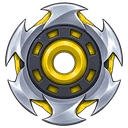
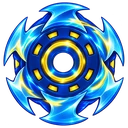
feat(game): the owner's own saw for the volt blades

diff --git a/AGENTS.md b/AGENTS.md
@@ -11,7 +11,7 @@ Guide for any AI agent (Claude Code, Codex, Cursor, Gemini CLI…) working in th
 - `src/data/` — **content**: `experience.ts` (jobs and roles), `work.ts` (projects), `contact.ts`.
 - `src/i18n/locales/*.json` — eleven translation files. Any user-visible text must be added to **all eleven** (`en` is the reference).
 - `src/styles/partials/` — SCSS by section. `_mobile.scss` and `_responsive.scss` hold the phone layout (≤760px).
-- `game.html` + `src/game/` — **Bug Hunter**, an Archero-style canvas game with Survivor.io-style weapons (move to dodge, stand still and ranged weapons fire; melee and magic work all the time; bugs drop XP gems; twelve rooms: ten fights with bosses in rooms 6 and 12, plus two shrine rooms (5 and 11); each level up offers one melee, one magic and one ranged or upgrade pick). It has two modes (`Mode` in `world.ts`, `save.mode`, picked on the cover's pill under the play bar or on the map screen's `.mode-pick`): **Sprints** is that room game; **On call** («Guardia», `'horde'`) is the Survivor.io take: `newGame(…, 'horde')` calls `startField()` instead of `enterRoom()`, the hero starts at (0, 0) on an open field with no walls (`keepInRoom` only clamps in sprints, `outside()` is never true there, shots and orbs die by their `life`), the camera rides on the hero (`draw()` centres the transform on `view.cx/cy`, which `resize()` sets to the middle of the area under the HUD; `drawField()` tiles the plain middle of the world's floor picture, `FLOOR_CROP`, mirrored tile by tile; fog and the retro grid cover `vis`, the visible rect) and `updateHorde()` runs the ten minutes (`HORDE_LENGTH`): spawns on a ring just past the visible edge (`ringSpot`, from `g.viewHalf`, which the page sets every frame from the canvas), faster and in bigger groups with the clock, tickets from 1:30 and legacy from 2:30 with a cap on tickets and on everyone (`cap`), toughness and speed scaling with the minute instead of the room, stragglers far behind teleported back to the ring, hazard patches (lava, puddles, thorns) dropped near you now and then, a coin bonus and a `'minute'` event each minute, bosses summoned at `HORDE_BOSS_AT` (5:00 and 10:00; boss HP there is its own, `bossHp`; the second is `final` for its attacks; backups only while there is room), and the win when the last boss dies. There, ranged weapons also fire while moving at 1/1.8 of the rate (standing still is still better), lightning strikes come slower, and levels climb geometrically (`xpNext × 1.22`) because XP pours in. Records per world in `save.hordeBest` (time, kills, won); winning either mode unlocks the next world. Balance was checked with a kiting bot (`scratchpad` sims): a careless bot lasts about three minutes in world 1, so a person should get much further; tune `updateHorde` if the owner finds it too easy or too hard. The spinning blades take an element from the other skills you carry (`bladeElement` in `world.ts`, the one with most levels wins: fire from fire arrows or the fireball burns, ice from frost or water arrows slows, volt from lightning arrows, sparks or the storm arcs to one more bug, shade from ghost arrows or spirits cuts 30% deeper, plain steel with none): `drawBlades` draws the owner's saw blade spinning as it orbits (`static/images/game/blades/<element>.webp`: `steel` is the picture as painted, the others recolour only its red parts; glow from `BLADE_LOOK`; retro keeps the drawn blades), and the level-up card and HUD show that element's medallion (`skills/blades-{fire,ice,volt,shade}.webp`, `iconFile()` in `main.ts`) with its own name and text. The Spirits skill is a companion: one ghost per level floats at the hero's side (`SPIRIT_SLOTS`) and keeps shooting an `orb` shot at the nearest bug, even while you move; it is drawn from the owner's painted ghost (`static/images/game/spirits/<skin>-float-0..4.webp` and `-shoot-{l,r}.webp`, whole square canvases drawn centred; `drawSpirits` in `draw.ts`, the throwing pose shows for `cast` seconds after each shot, facing `dir`): the companion's look and element come from the loadout (`spirit: SpiritSkin` in `shop.ts`): `water` is the friendly default (five floating frames and a throw each way), and five element spirits are bought for the magic slot (the owner's sets in folders fire, water, leaf, bolt, shadow map to `fire`, `tide`, `thorn`, `volt`, `shade`; every set has the same seven frames, all scaled so the body matches the water ghost's size, `SPIRIT_FRAMES`), each with an orb effect in `hitWithShot` (fire burns, tide slows, thorn pierces one bug, volt arcs to one more, shade passes through all); orb colours in `SPIRIT_COLOR`; retro keeps the hand-drawn ghost and the purple orb. Eight worlds of twelve sprints (`WORLDS` in `world.ts`): world 1 is the plain backlog, worlds 2–8 are themed by element with their own colours, a hazard (lava, puddles, thorns, lightning, bouncing shots, fog, mixed) and tougher bugs; finishing a world unlocks the next on the world map (`mapScreen` in `main.ts`, progress in `save.ts`). The map is built from the owner's island artwork in `static/images/game/map/` (one WebP per world, plus a 16:10 preview each; `rayo` and `nucleo` are hue-shifted copies of `infierno` and `demonios`): `ISLAND_META` holds, per image, where the ring, name plate and badge sit so the translated overlays line up with the art. It has a main menu with a shop (`shop.ts`: coins earned per run buy items worn in six slots, head, body, boots, magic, melee, ranged (`SLOTS`; older saves had `charm` and `relic`, `loadSave()` re-seats those items by their current slot), and the **forge**, seven permanent upgrades bought level by level, `UPGRADES`/`upgradePrice`, kept in `save.upgrades` and folded into the run's loadout by `buildLoadout(equipped, upgrades)` whatever is worn: vitality, might, armour, swiftness, magnet, fortune, wisdom; the loadout's `hasteMult`, `magnet` and `armor` are read in `world.ts`), a **Customise** screen (`stylesScreen` in `main.ts`, opened by the cover's third card and laid out after the owner's mock-up: the title in the gem plate (`ui/title_plate.webp`), the hero standing on the glowing pad (`ui/glow_pad.webp`, floor ring at 75% of its height), three slot cards down each side, armour left (head, body, boots) and weapons right (magic, melee, ranged), each one of the owner's rings sitting on a chamfered CSS plate with the slot name and the worn item (`ui/ring_{grey,blue,orange_on}.webp` for empty, worn and open), and three round buttons under it, back (`btn_prev`), character and enemies; tapping a slot or one of the two buttons lists what fits there in ring-and-plate rows, `ui/row2_*.webp`, ring centre at 20.3% and plate 38–91% of the width, measured on the picture; one tap wears an owned item or buys and wears it; below it the skin and the enemy look pickers: original, demon, Greek arena, nightmare, random, drawn in `draw.ts`; in retro the hero preview is a canvas drawn by `drawRetroFigure()`, which also shows the body item as a cape and the boots as feet, the painted sprite only knows the hat), and sound options; the dialogs, HUD, cards and crests are cut from the owner's UI sheets into `static/images/game/ui/` (the two stone-and-neon frames, squat and tall, are drawn whole behind each dialog, never sliced: `fitPanel()` in `main.ts` measures the content, picks the frame whose shape is closer and sets height and padding from the bands in `FRAMES`, so the content sits in the plain centre and long dialogs scroll inside; `show()` lifts the `.ui-close` button out of the scrolling box so it stays put, and a dialog shown with `'keep-scroll'` (the shop) keeps its scroll position across re-renders (`fitPanel()` reapplies it); the frame pictures are padded so the gem's axis is the exact centre of the file, so never recentre them with a transform; the card WebPs are cut without the dark matte the sheets carry around each piece, so no CSS masks are needed; every UI picture's visual centre is within 1px of its file's centre (measure the alpha centroid and the mid-row extent before adding one; `btn2_green` was rebuilt by mirroring its intact half because the sheet cut its left end); row cards place the text column exactly on the picture's body (ring 5–29%, body 29–91% of the width: columns `31.87% 1fr` with `padding-right: 9%`, since grid percentages resolve against the content box) and the icon on the ring's centre at 17%; side-by-side button rows are stacked everywhere because two bevelled bars are wider than the frame's plain centre and would shift the whole column; the owner's three chamfered bars as `border-image` (`ui/btn2_{blue,green,orange}.webp`: blue for the main action, green to play, orange for anything that costs coins; grey `btn_gray` for secondary buttons); crests for pause, level-up, shrine, victory, defeat and boss with the title set underneath; the level-up picks use the tall card pictures on wide screens (`tall_*.webp`, type sized in `cqw` so the longest description fits inside the body plate at any card width) and plain outlined rows on phones; the enemy-look picker uses the row cards; see `.ui-head`, `.panel .skill`, `.panel .style` in `game.css`); the health (green, with its own heart), XP (purple) and boss (red, spiked) meters come from the owner's HUD sheet, each split into an empty frame and a fill (`ui/meter2_{hp,xp,boss}_{frame,fill}.webp`; the track's position inside each frame was measured on the picture and is hard-coded in `game.css`): the frame keeps its shape and the fill is clipped to `--p` by `setMeter()` in `main.ts`, never resized; in a boss fight no crest is shown, the name sits in the horned plate (`ui/boss_plate.webp`) over the bar just under the HUD, and `resize()` starts the room right under the HUD (below the boss bar in a boss fight) and hugs it to the top, with the weapon badges as a column down the right edge over the playfield (`.gear`) so no row steals height from the room; on landscape screens 900px and wider (not retro) the HUD instead stands as a panel down the left edge (back, place, coins, health, XP), the pause sits top right over the weapon column and the boss bar lines up under the panel, so the room takes the whole height: the media query at the end of `game.css` sets `--hud-side: 1` and `resize()` reads it; items, forge upgrades and empty Customise slots have painted icons too (`static/images/game/items/<id>.webp`, `forge/<id>.webp`, `slots/<slot>.webp`; an item's `pic` in `shop.ts`, the items that start you with a weapon reuse that skill's medallion, `magnetBoots` has none yet; `picIcon()` in `main.ts` puts the emoji behind each picture for retro, which hides `.item-pic`); each skill has a painted medallion in `static/images/game/skills/<id>.webp` (`skillIcon()` in `main.ts`), shown in the level-up cards and the HUD weapon row (`double` doubles as the bow's icon); the main menu is the owner's cover mock-up used as is (`static/images/game/cover.jpg`, with its words wiped off the picture; on landscape screens 900px and wider the owner's desktop cover `cover-wide.jpg` instead, wiped the same way, fitted to the window with a blurred copy `landing-bg-wide.jpg` behind, every control re-placed in its own percentages in the media query at the end of `game.css`, and a drawn ✕ since that picture has no exit button; `main.ts` preloads whichever one the screen will show) and transparent buttons plus translatable text laid over the painted controls at fixed percentages in `menuScreen` (`.cover*` in `game.css`); the canvas title parade (`scene.ts`) still runs behind the other menu screens. While the cover and the map art load, `game.html` shows its own purple loading bar (`.loading`), which `main.ts` fills as each picture arrives and removes before opening the menu (never later than 6 s). Rooms 5 and 11 (`SHRINE_ROOMS`) are shrines: no enemies, the door open, and a statue in the middle that, when touched, offers half your health back or a random new skill (`shrinePick`; `shrineScreen` in `main.ts`); the altar is drawn from `ui/statue_on.webp` and `statue_off.webp`. Difficulty is tuned per fight number, not per room (`stageOf`), so the shrines don't make later fights harder. Clearing room 8 (`WHEEL_ROOM`) also opens a second, purple door in the top wall at `WHEEL_X`, once per run: it leads to the wheel of fate (`WHEEL`, `applyWheel`, `leaveWheel` in `world.ts`; `wheelScreen` in `main.ts`), eight slices with four good, three bad and one empty, drawn on the owner's painted disc and pointer (`ui/wheel_disc.webp`, `wheel_pin.webp`), then on to room 9. Dying with at least 1000 coins (banked plus this run's, `REVIVE_PRICE`) offers, once per run, to buy your way back up with half your health (`paidRevive` in `world.ts`, `reviveScreen` in `main.ts`; the run's coins are spent first, then the bank). On localhost `window.bugHunter` exposes the running game so those screens can be reached by a script. The hero is drawn from pose pictures cut from the owner's character sheet (`static/images/game/hero/<skin>-<hat>-<pose>.webp`: two skins, boy and robot, picked in the Customise screen and kept as `save.skin`; four head states, base or the worn head item, since the hats are painted on; five poses, idle, walk, back, shoot, cheer; `drawPlayer` in `draw.ts` picks one from movement, facing and whether the room is clear, flips it to face left and alternates idle/walk for a step cycle); the collision circle in `world.ts` is unchanged. Each world has its own cast of enemies (`look` in `WORLDS`: original bugs, demons, vikings, jungle, Greek arena, robots, nightmare; world 8 mixes them), drawn in `draw.ts`; the picker can force one. Each world has a painted arena floor (`static/images/game/floors/worldN.webp`, drawn under walls, racks and hazards by `drawRoom`; flat tiles in the retro look). Every cast has painted sprites (`static/images/game/enemies/<look>-<kind>-<frame>.webp`; `drawEnemySprite` in `draw.ts`, `SPRITE_FRAMES`): original, demon and Greek have four walking frames; viking, jungle, robot and nightmare have six (three walking, two attacking shown while a boss aims/charges or just after a ticket throws, one taking a hit). The retro look uses the hand-drawn figures. Sheets are cut with margins on every side and per-cell connected components, so parts beyond the grid line survive and neighbours don't; the Jarl's strike and hit frames overlap on the sheet beyond repair, so `viking-boss-4/5.webp` are copies of its wind-up and base frames. All audio is synthesised in `audio.ts` with the Web Audio API (drum and bass at 174 BPM: a 64-bar set where two "DJs" alternate, with a trance breakdown and a lifted second progression); there are no audio files. Progress lives in one localStorage key (`save.ts`). Balance changes are best checked by simulating games in Node against `world.ts`. Rules in `world.ts` (no DOM, so it can be simulated in Node), drawing in `draw.ts`, screens and input in `main.ts`, text in `strings.ts` (English and Spanish only). It reads the site's saved `lang` and `accent`. The bow's arrows are painted per element (`static/images/game/arrows/<element>.webp` and `<element>-trail.webp` for fire, water, leaf and ghost; `drawShots` in `draw.ts` uses the first of them owned, the picture points right and its tip sits on the shot, trail behind; the old drawn line stays as the fallback until the picture loads). Options has a **Retro look** switch (`save.retro`, `data-retro` on `<html>`): the override block at the end of `game.css` turns the painted textures off (plain panels, flat buttons, bordered cards, emoji icons, one-row HUD) and `draw.ts` draws the ring-and-avatar hero and the hand-drawn statue instead of the sprites; `fitPanel()` steps aside in retro. The game's text is set in Fredoka (Google Fonts, loaded only by `game.html`; `--font` in `game.css`); the monospace numbers stay as they are.
+- `game.html` + `src/game/` — **Bug Hunter**, an Archero-style canvas game with Survivor.io-style weapons (move to dodge, stand still and ranged weapons fire; melee and magic work all the time; bugs drop XP gems; twelve rooms: ten fights with bosses in rooms 6 and 12, plus two shrine rooms (5 and 11); each level up offers one melee, one magic and one ranged or upgrade pick). It has two modes (`Mode` in `world.ts`, `save.mode`, picked on the cover's pill under the play bar or on the map screen's `.mode-pick`): **Sprints** is that room game; **On call** («Guardia», `'horde'`) is the Survivor.io take: `newGame(…, 'horde')` calls `startField()` instead of `enterRoom()`, the hero starts at (0, 0) on an open field with no walls (`keepInRoom` only clamps in sprints, `outside()` is never true there, shots and orbs die by their `life`), the camera rides on the hero (`draw()` centres the transform on `view.cx/cy`, which `resize()` sets to the middle of the area under the HUD; `drawField()` tiles the plain middle of the world's floor picture, `FLOOR_CROP`, mirrored tile by tile; fog and the retro grid cover `vis`, the visible rect) and `updateHorde()` runs the ten minutes (`HORDE_LENGTH`): spawns on a ring just past the visible edge (`ringSpot`, from `g.viewHalf`, which the page sets every frame from the canvas), faster and in bigger groups with the clock, tickets from 1:30 and legacy from 2:30 with a cap on tickets and on everyone (`cap`), toughness and speed scaling with the minute instead of the room, stragglers far behind teleported back to the ring, hazard patches (lava, puddles, thorns) dropped near you now and then, a coin bonus and a `'minute'` event each minute, bosses summoned at `HORDE_BOSS_AT` (5:00 and 10:00; boss HP there is its own, `bossHp`; the second is `final` for its attacks; backups only while there is room), and the win when the last boss dies. There, ranged weapons also fire while moving at 1/1.8 of the rate (standing still is still better), lightning strikes come slower, and levels climb geometrically (`xpNext × 1.22`) because XP pours in. Records per world in `save.hordeBest` (time, kills, won); winning either mode unlocks the next world. Balance was checked with a kiting bot (`scratchpad` sims): a careless bot lasts about three minutes in world 1, so a person should get much further; tune `updateHorde` if the owner finds it too easy or too hard. The spinning blades take an element from the other skills you carry (`bladeElement` in `world.ts`, the one with most levels wins: fire from fire arrows or the fireball burns, ice from frost or water arrows slows, volt from lightning arrows, sparks or the storm arcs to one more bug, shade from ghost arrows or spirits cuts 30% deeper, plain steel with none): `drawBlades` draws the owner's saw blade spinning as it orbits (`static/images/game/blades/<element>.webp`: `steel` and `volt` are the owner's own pictures, fire, ice and shade recolour only the steel one's red parts; glow from `BLADE_LOOK`; retro keeps the drawn blades), and the level-up card and HUD show that element's medallion (`skills/blades-{fire,ice,volt,shade}.webp`, `iconFile()` in `main.ts`) with its own name and text. The Spirits skill is a companion: one ghost per level floats at the hero's side (`SPIRIT_SLOTS`) and keeps shooting an `orb` shot at the nearest bug, even while you move; it is drawn from the owner's painted ghost (`static/images/game/spirits/<skin>-float-0..4.webp` and `-shoot-{l,r}.webp`, whole square canvases drawn centred; `drawSpirits` in `draw.ts`, the throwing pose shows for `cast` seconds after each shot, facing `dir`): the companion's look and element come from the loadout (`spirit: SpiritSkin` in `shop.ts`): `water` is the friendly default (five floating frames and a throw each way), and five element spirits are bought for the magic slot (the owner's sets in folders fire, water, leaf, bolt, shadow map to `fire`, `tide`, `thorn`, `volt`, `shade`; every set has the same seven frames, all scaled so the body matches the water ghost's size, `SPIRIT_FRAMES`), each with an orb effect in `hitWithShot` (fire burns, tide slows, thorn pierces one bug, volt arcs to one more, shade passes through all); orb colours in `SPIRIT_COLOR`; retro keeps the hand-drawn ghost and the purple orb. Eight worlds of twelve sprints (`WORLDS` in `world.ts`): world 1 is the plain backlog, worlds 2–8 are themed by element with their own colours, a hazard (lava, puddles, thorns, lightning, bouncing shots, fog, mixed) and tougher bugs; finishing a world unlocks the next on the world map (`mapScreen` in `main.ts`, progress in `save.ts`). The map is built from the owner's island artwork in `static/images/game/map/` (one WebP per world, plus a 16:10 preview each; `rayo` and `nucleo` are hue-shifted copies of `infierno` and `demonios`): `ISLAND_META` holds, per image, where the ring, name plate and badge sit so the translated overlays line up with the art. It has a main menu with a shop (`shop.ts`: coins earned per run buy items worn in six slots, head, body, boots, magic, melee, ranged (`SLOTS`; older saves had `charm` and `relic`, `loadSave()` re-seats those items by their current slot), and the **forge**, seven permanent upgrades bought level by level, `UPGRADES`/`upgradePrice`, kept in `save.upgrades` and folded into the run's loadout by `buildLoadout(equipped, upgrades)` whatever is worn: vitality, might, armour, swiftness, magnet, fortune, wisdom; the loadout's `hasteMult`, `magnet` and `armor` are read in `world.ts`), a **Customise** screen (`stylesScreen` in `main.ts`, opened by the cover's third card and laid out after the owner's mock-up: the title in the gem plate (`ui/title_plate.webp`), the hero standing on the glowing pad (`ui/glow_pad.webp`, floor ring at 75% of its height), three slot cards down each side, armour left (head, body, boots) and weapons right (magic, melee, ranged), each one of the owner's rings sitting on a chamfered CSS plate with the slot name and the worn item (`ui/ring_{grey,blue,orange_on}.webp` for empty, worn and open), and three round buttons under it, back (`btn_prev`), character and enemies; tapping a slot or one of the two buttons lists what fits there in ring-and-plate rows, `ui/row2_*.webp`, ring centre at 20.3% and plate 38–91% of the width, measured on the picture; one tap wears an owned item or buys and wears it; below it the skin and the enemy look pickers: original, demon, Greek arena, nightmare, random, drawn in `draw.ts`; in retro the hero preview is a canvas drawn by `drawRetroFigure()`, which also shows the body item as a cape and the boots as feet, the painted sprite only knows the hat), and sound options; the dialogs, HUD, cards and crests are cut from the owner's UI sheets into `static/images/game/ui/` (the two stone-and-neon frames, squat and tall, are drawn whole behind each dialog, never sliced: `fitPanel()` in `main.ts` measures the content, picks the frame whose shape is closer and sets height and padding from the bands in `FRAMES`, so the content sits in the plain centre and long dialogs scroll inside; `show()` lifts the `.ui-close` button out of the scrolling box so it stays put, and a dialog shown with `'keep-scroll'` (the shop) keeps its scroll position across re-renders (`fitPanel()` reapplies it); the frame pictures are padded so the gem's axis is the exact centre of the file, so never recentre them with a transform; the card WebPs are cut without the dark matte the sheets carry around each piece, so no CSS masks are needed; every UI picture's visual centre is within 1px of its file's centre (measure the alpha centroid and the mid-row extent before adding one; `btn2_green` was rebuilt by mirroring its intact half because the sheet cut its left end); row cards place the text column exactly on the picture's body (ring 5–29%, body 29–91% of the width: columns `31.87% 1fr` with `padding-right: 9%`, since grid percentages resolve against the content box) and the icon on the ring's centre at 17%; side-by-side button rows are stacked everywhere because two bevelled bars are wider than the frame's plain centre and would shift the whole column; the owner's three chamfered bars as `border-image` (`ui/btn2_{blue,green,orange}.webp`: blue for the main action, green to play, orange for anything that costs coins; grey `btn_gray` for secondary buttons); crests for pause, level-up, shrine, victory, defeat and boss with the title set underneath; the level-up picks use the tall card pictures on wide screens (`tall_*.webp`, type sized in `cqw` so the longest description fits inside the body plate at any card width) and plain outlined rows on phones; the enemy-look picker uses the row cards; see `.ui-head`, `.panel .skill`, `.panel .style` in `game.css`); the health (green, with its own heart), XP (purple) and boss (red, spiked) meters come from the owner's HUD sheet, each split into an empty frame and a fill (`ui/meter2_{hp,xp,boss}_{frame,fill}.webp`; the track's position inside each frame was measured on the picture and is hard-coded in `game.css`): the frame keeps its shape and the fill is clipped to `--p` by `setMeter()` in `main.ts`, never resized; in a boss fight no crest is shown, the name sits in the horned plate (`ui/boss_plate.webp`) over the bar just under the HUD, and `resize()` starts the room right under the HUD (below the boss bar in a boss fight) and hugs it to the top, with the weapon badges as a column down the right edge over the playfield (`.gear`) so no row steals height from the room; on landscape screens 900px and wider (not retro) the HUD instead stands as a panel down the left edge (back, place, coins, health, XP), the pause sits top right over the weapon column and the boss bar lines up under the panel, so the room takes the whole height: the media query at the end of `game.css` sets `--hud-side: 1` and `resize()` reads it; items, forge upgrades and empty Customise slots have painted icons too (`static/images/game/items/<id>.webp`, `forge/<id>.webp`, `slots/<slot>.webp`; an item's `pic` in `shop.ts`, the items that start you with a weapon reuse that skill's medallion, `magnetBoots` has none yet; `picIcon()` in `main.ts` puts the emoji behind each picture for retro, which hides `.item-pic`); each skill has a painted medallion in `static/images/game/skills/<id>.webp` (`skillIcon()` in `main.ts`), shown in the level-up cards and the HUD weapon row (`double` doubles as the bow's icon); the main menu is the owner's cover mock-up used as is (`static/images/game/cover.jpg`, with its words wiped off the picture; on landscape screens 900px and wider the owner's desktop cover `cover-wide.jpg` instead, wiped the same way, fitted to the window with a blurred copy `landing-bg-wide.jpg` behind, every control re-placed in its own percentages in the media query at the end of `game.css`, and a drawn ✕ since that picture has no exit button; `main.ts` preloads whichever one the screen will show) and transparent buttons plus translatable text laid over the painted controls at fixed percentages in `menuScreen` (`.cover*` in `game.css`); the canvas title parade (`scene.ts`) still runs behind the other menu screens. While the cover and the map art load, `game.html` shows its own purple loading bar (`.loading`), which `main.ts` fills as each picture arrives and removes before opening the menu (never later than 6 s). Rooms 5 and 11 (`SHRINE_ROOMS`) are shrines: no enemies, the door open, and a statue in the middle that, when touched, offers half your health back or a random new skill (`shrinePick`; `shrineScreen` in `main.ts`); the altar is drawn from `ui/statue_on.webp` and `statue_off.webp`. Difficulty is tuned per fight number, not per room (`stageOf`), so the shrines don't make later fights harder. Clearing room 8 (`WHEEL_ROOM`) also opens a second, purple door in the top wall at `WHEEL_X`, once per run: it leads to the wheel of fate (`WHEEL`, `applyWheel`, `leaveWheel` in `world.ts`; `wheelScreen` in `main.ts`), eight slices with four good, three bad and one empty, drawn on the owner's painted disc and pointer (`ui/wheel_disc.webp`, `wheel_pin.webp`), then on to room 9. Dying with at least 1000 coins (banked plus this run's, `REVIVE_PRICE`) offers, once per run, to buy your way back up with half your health (`paidRevive` in `world.ts`, `reviveScreen` in `main.ts`; the run's coins are spent first, then the bank). On localhost `window.bugHunter` exposes the running game so those screens can be reached by a script. The hero is drawn from pose pictures cut from the owner's character sheet (`static/images/game/hero/<skin>-<hat>-<pose>.webp`: two skins, boy and robot, picked in the Customise screen and kept as `save.skin`; four head states, base or the worn head item, since the hats are painted on; five poses, idle, walk, back, shoot, cheer; `drawPlayer` in `draw.ts` picks one from movement, facing and whether the room is clear, flips it to face left and alternates idle/walk for a step cycle); the collision circle in `world.ts` is unchanged. Each world has its own cast of enemies (`look` in `WORLDS`: original bugs, demons, vikings, jungle, Greek arena, robots, nightmare; world 8 mixes them), drawn in `draw.ts`; the picker can force one. Each world has a painted arena floor (`static/images/game/floors/worldN.webp`, drawn under walls, racks and hazards by `drawRoom`; flat tiles in the retro look). Every cast has painted sprites (`static/images/game/enemies/<look>-<kind>-<frame>.webp`; `drawEnemySprite` in `draw.ts`, `SPRITE_FRAMES`): original, demon and Greek have four walking frames; viking, jungle, robot and nightmare have six (three walking, two attacking shown while a boss aims/charges or just after a ticket throws, one taking a hit). The retro look uses the hand-drawn figures. Sheets are cut with margins on every side and per-cell connected components, so parts beyond the grid line survive and neighbours don't; the Jarl's strike and hit frames overlap on the sheet beyond repair, so `viking-boss-4/5.webp` are copies of its wind-up and base frames. All audio is synthesised in `audio.ts` with the Web Audio API (drum and bass at 174 BPM: a 64-bar set where two "DJs" alternate, with a trance breakdown and a lifted second progression); there are no audio files. Progress lives in one localStorage key (`save.ts`). Balance changes are best checked by simulating games in Node against `world.ts`. Rules in `world.ts` (no DOM, so it can be simulated in Node), drawing in `draw.ts`, screens and input in `main.ts`, text in `strings.ts` (English and Spanish only). It reads the site's saved `lang` and `accent`. The bow's arrows are painted per element (`static/images/game/arrows/<element>.webp` and `<element>-trail.webp` for fire, water, leaf and ghost; `drawShots` in `draw.ts` uses the first of them owned, the picture points right and its tip sits on the shot, trail behind; the old drawn line stays as the fallback until the picture loads). Options has a **Retro look** switch (`save.retro`, `data-retro` on `<html>`): the override block at the end of `game.css` turns the painted textures off (plain panels, flat buttons, bordered cards, emoji icons, one-row HUD) and `draw.ts` draws the ring-and-avatar hero and the hand-drawn statue instead of the sprites; `fitPanel()` steps aside in retro. The game's text is set in Fredoka (Google Fonts, loaded only by `game.html`; `--font` in `game.css`); the monospace numbers stay as they are.
 - `static/data/experience.json` — a second copy of the experience data used by the legacy calendar page (`src/legacy/calendar`). **Keep it in sync** with `src/data/experience.ts`.
 - `static/cv/alvaro-molina-cv.pdf` — the CV served by the "Download CV" button. Generated from `scripts/cv/cv.html` (see below).
 - `scripts/build/` — build pipeline (prerender, GitHub contributions, sitemaps).
